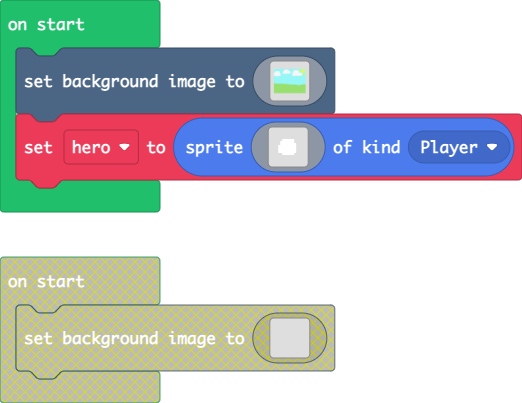
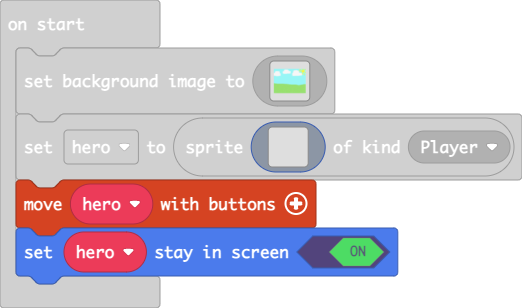
Update main.blocks, main.ts

diff --git a/main.ts b/main.ts
@@ -125,16 +125,18 @@ let hero = sprites.create(img`
     . . . . . . . . . . . . . . . . 
     . . . . . . . . . . . . . . . . 
     . . . . . . . . . . . . . . . . 
-    . . . . . 1 1 1 1 1 1 . . . . . 
-    . . . . 1 1 1 1 1 1 1 . . . . . 
-    . . . . 1 1 1 1 1 1 1 1 . . . . 
-    . . . 1 1 1 1 1 1 1 1 1 . . . . 
-    . . . 1 1 1 1 1 1 1 1 1 . . . . 
-    . . . 1 1 1 1 1 1 1 1 1 . . . . 
-    . . . 1 1 1 1 1 1 1 1 1 . . . . 
-    . . . . . 1 1 1 1 1 1 . . . . . 
+    . . . . . . . . . . . . . . . . 
+    . . . . . . . . . . . . . . . . 
+    . . . . . . . . . . . . . . . . 
+    . . . . . . . . . . . . . . . . 
+    . . . . . . . . . . . . . . . . 
+    . . . . . . . . . . . . . . . . 
+    . . . . . . . . . . . . . . . . 
+    . . . . . . . . . . . . . . . . 
     . . . . . . . . . . . . . . . . 
     . . . . . . . . . . . . . . . . 
     . . . . . . . . . . . . . . . . 
     . . . . . . . . . . . . . . . . 
     `, SpriteKind.Player)
+controller.moveSprite(hero)
+hero.setStayInScreen(true)
